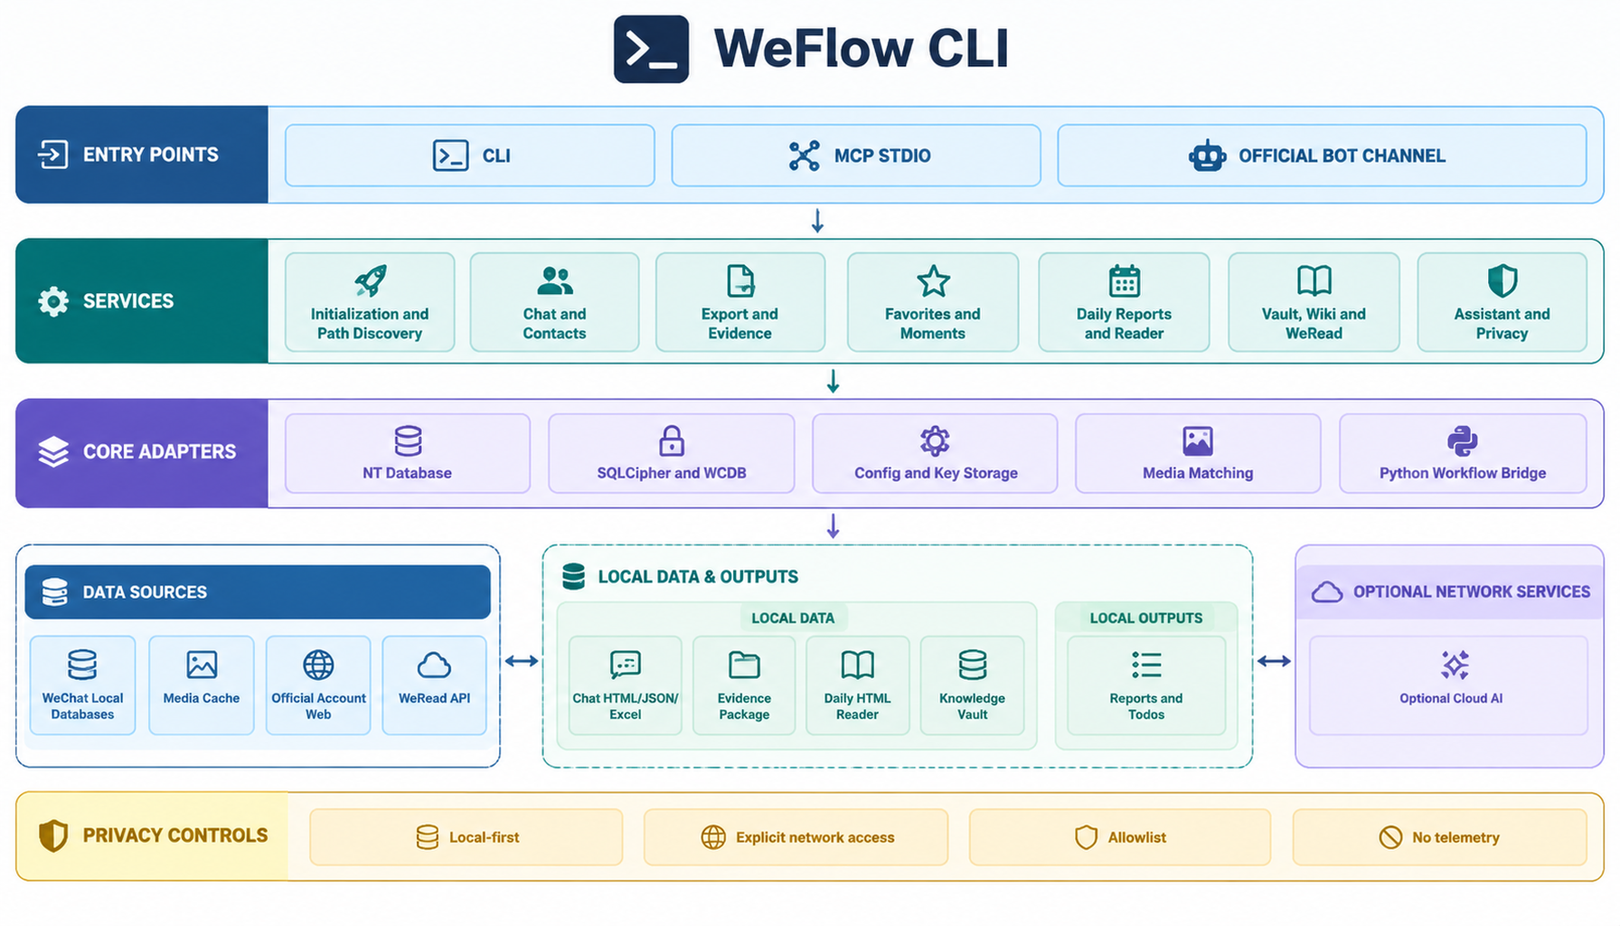
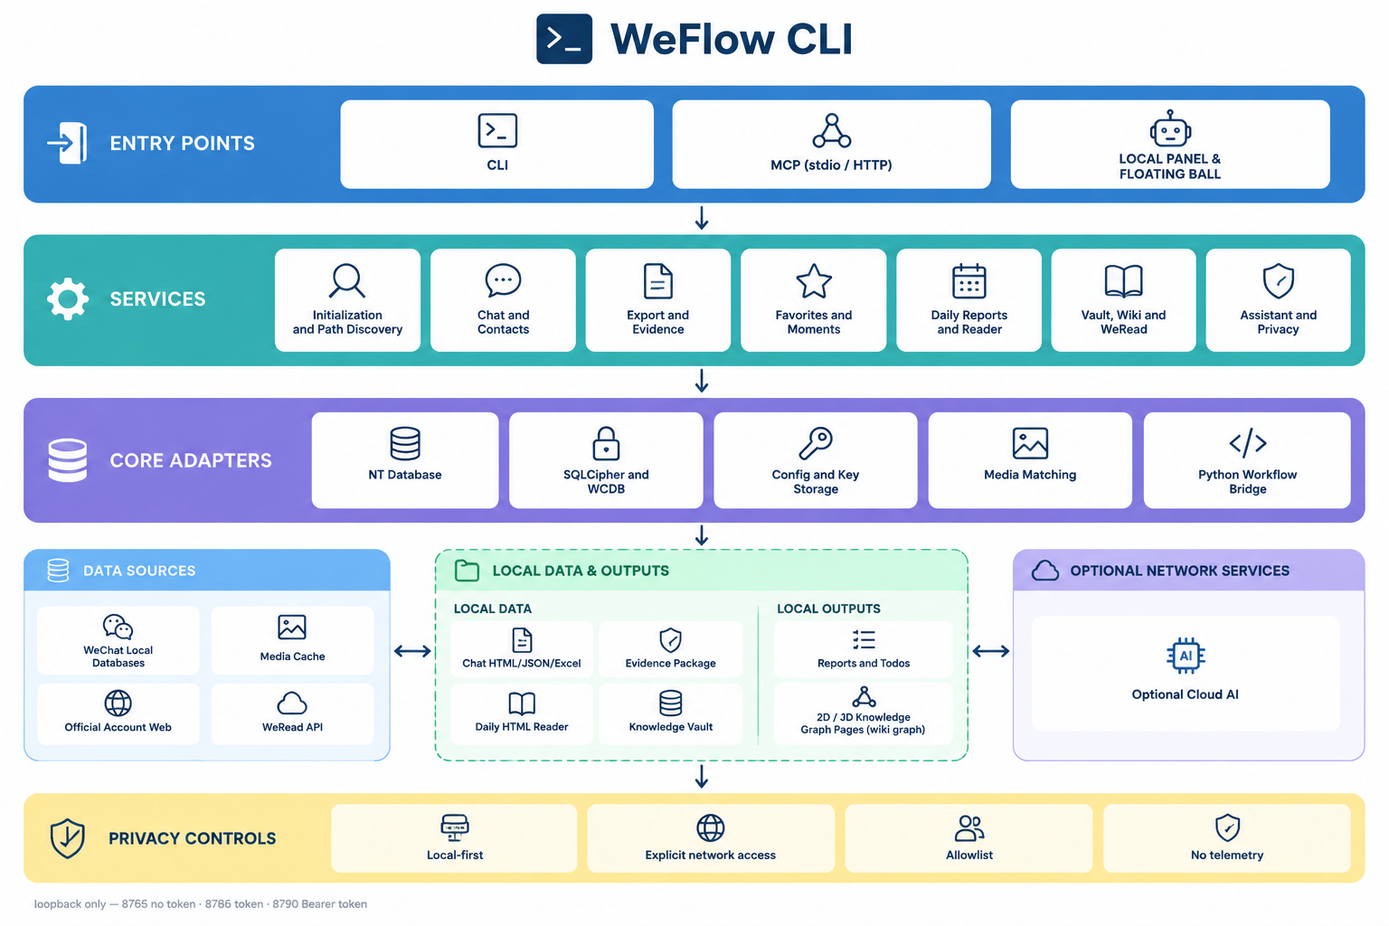
docs: README 两份与 ARCHITECTURE 更新到当前代码 + 用 gpt-image-2.5 重出架构图
用户说"我重新更新了"，于是三份探索（文档盘点 / 过期声明扫描 / 真实架构测绘）找出差在哪，
按"会误导读者的优先"改。

## README（中英同步，逐节对照）

- **起草回复**：原写"只出文字，不发送"，而 1.9.0 起 CLI 有 `--pick N --send --yes`（两段式，
  `--send` 必须配 `--pick`）。顺带发现 **`draft --help` 自己也自相矛盾**——说明写着"不发送"，
  下面第三条就是 `--send`，一并修。
- **`bonds` 整条命令没写**（1.9.0 新增的关系温度）：两份 README 的命令表都补上。
- **知识库只写了 3D**：补 `wiki graph --flat` 的 2D 版与 `--min-degree` / `--line` 两个过滤。
- **面板那行没有"记忆"按钮**（长期记忆的只读视图，每条带写入时间与来源原话）。
- **宠物互动差一个版本**：补被拎着左右摆（幅度跟速度走）、答复落地跳一下、7–13 秒眨一次眼、
  眼睛跟着鼠标、拖到屏幕边半隐；中文版补上"划过只扭、不倾斜"这个日期。
- **中文版那句"MCP 受控只读"是错的**：MCP 工具面由助手工具表派生（少 `save_memory`、
  `look_at_image`、`set_todo_status`），写入类要显式 `confirm`，而发送 / 发布 / 改配置在两侧
  都没有工具。
- 中文版补上英文版已有的"约定版本的消息契约"（`export --contract weflow-v1`）。

## ARCHITECTURE.md

- **整条缺席的入口**：新增"本机面板与助手守护进程"一节（`assistant start` → 分离进程 →
  `127.0.0.1:8766` 随机 token → 写 endpoint 文件 → Electron/Edge + 一次性配对码换 HttpOnly
  cookie；窗口只读不写），分层图与边界表都把 `src/panel/` 补上。
- **两句说反的话**：MCP"不监听网络端口"（实际有 `--http`，回环 8790 + 强制 Bearer +
  DNS-rebinding 防护）；"默认工具面只读"（实际由助手工具表派生，不是只读）。
- **"日报写 Vault"当成默认行为** → 改成"只有 `--with-vault` / `--with-wiki` 才写"，并写清原因
  （Obsidian 图谱随库文件变化重建，"内容一更新图谱就重建"其实是库被重写了）。
- 三张 ASCII 图重画，新增一张回环端口表（8765 无 token / 8766 token / 8790 Bearer）；
  `resources/` 与 `scripts/` 的描述按实际内容改写。

## 架构图

`gpt-image-2.5` 出 3 张候选、**逐张看过**选 1 张（第 3 张把 "CLI" 画重复了，淘汰）：
补上第三条入口（本机面板）、`MCP (stdio / HTTP)`、`2D / 3D Knowledge Graph Pages`，
底部标三个回环端口。README 两处图注加"链路与端口以 ARCHITECTURE.md 为准"。
实测 `2.5` 约 **4 分钟/张**（`-ca` 是 0.5 分钟，差 10 倍）。
[…]

diff --git a/bin/weflow-cli.ts b/bin/weflow-cli.ts
@@ -629,9 +629,11 @@ program
         // 读这一位的调用方按 false 走保守分支即可。
         mcpDefaultReadOnly: false,
         mcpSurface: {
-          // 原文只写了 "minus save_memory" —— 而那张表也排除了 `look_at_image`（MCP 只取文本，
-          // 它挂进侧信道的图没人接）。机器可读字段少说一句同样算不准，如实写全。
-          derivedFrom: 'assistant tools minus save_memory and look_at_image',
+          // 这句话**手工补过两回**：先是只写 save_memory，后来补上 `look_at_image`，第三次加
+          // `set_todo_status` 时又漏了 —— 每次都是"表变了、这句话没变"，而且没有任何东西会红。
+          // 现在名字**逐个与 `MCP_EXCLUDED` 对齐**，并由 `test/assistant-tools.test.ts` 从源码里核：
+          // 那张表再加一项而这里没跟，测试就红（同下面 requiresConfirm 的处理方式）。
+          derivedFrom: 'assistant tools minus save_memory, look_at_image and set_todo_status',
           writesFiles: ['export_chat'],
           // 逐个核实过（脚本里确实调云端模型的那些）：
           // who_owes_reply/search_chats → Jev；search_semantic → 阿里云百炼嵌入 + Jev 重排；draft_reply → Jev + DeepSeek。
@@ -5289,7 +5291,7 @@ program
   // draft：判断在前、起草在后、**绝不发送**
   program
     .command('draft <talker>')
-    .description('帮我起草回复：先判断（意图/风险/该不该给实质），再起草候选 —— **只产出文本，不发送**')
+    .description('帮我起草回复：先判断（意图/风险/该不该给实质），再起草候选 —— **默认只产出文本；给了 --pick N --send 才会替你发送**')
     .option('--count <n>', '要几条候选', '3')
     .option('--pick <n>', '选第几条（从 1 数）；不带 --send 时只把那条的完整原文打出来')
     .option('--send', '把选中的那条发出去 —— **必须同时给 --pick**（不允许"自己挑一条发"），仍需 --yes/--dry-run')

diff --git a/test/assistant-tools.test.ts b/test/assistant-tools.test.ts
@@ -84,6 +84,22 @@ test('capability discovery tells the truth about the MCP surface', () => {
   assert.deepEqual([...gated].sort(),
     [...capabilities.safety.mcpSurface.callsCloudModels].sort(),
     '会出境的工具必须一个个都上确认闸门')
+  // `derivedFrom` 是同一类字段，而且**手工补过两回**：最早只写 `save_memory`，后来补了
+  // `look_at_image`，第三次加 `set_todo_status` 时又漏了（2026-10-03 核对文档时才发现）。
+  // 每次都是"表变了、这句话没变"，且没有任何东西会红。所以这里也从源码数 `MCP_EXCLUDED`
+  // 的键，与那句话点名的名字**双向比对** —— 那张表再加一项而说明没跟上，这条就红。
+  const excludedBlock = /export const MCP_EXCLUDED[^{]*\{([\s\S]*?)\n\}/.exec(toolSource)
+  assert.ok(excludedBlock, '找不到 MCP_EXCLUDED 的定义')
+  const excluded = [...excludedBlock[1].matchAll(/^\s{2}([a-z_]+):/gm)].map((m) => m[1])
+  // 解析本身的哨兵：数不出东西时下面那条 deepEqual 会因为两边都空而"通过"
+  assert.ok(excluded.length >= 3, `MCP_EXCLUDED 只数出 ${excluded.length} 个键，解析可能失效`)
+  const named = capabilities.safety.mcpSurface.derivedFrom
+    .replace(/^.*?\bminus\b\s*/, '')
+    .split(/,\s*|\s+and\s+/)
+    .map((x: string) => x.trim())
+    .filter(Boolean)
+  assert.deepEqual([...named].sort(), [...excluded].sort(),
+    'derivedFrom 点名的必须正好是 MCP_EXCLUDED 的键（字段与那张表不许各说各话）')
   assert.equal(capabilities.read.exports.versionedContract, 'weflow-message/v1')
   assert.equal(capabilities.read.exports.rawContractPreserved, true)
   assert.equal(capabilities.read.exports.incrementalRead.stableCursor, false)

diff --git a/ARCHITECTURE.md b/ARCHITECTURE.md
@@ -4,41 +4,53 @@
 
 ## 定位
 
-WeFlow CLI 是一个本地优先的命令行工具和 stdio MCP Server，面向用户本人有权访问的微信本地数据，提供查询、导出、公众号阅读、知识整理和可选 AI 助手能力。
+WeFlow CLI 是一个本地优先的命令行工具、MCP Server（**stdio 与回环 HTTP 两种传输**）和一个常驻的**本机助手面板**，面向用户本人有权访问的微信本地数据，提供查询、导出、公众号阅读、知识整理、概念图谱和可选 AI 助手能力。
 
 ## 分层结构
 
 ```text
-MCP 客户端 / 终端用户
-          |
-          v
-CLI 入口 bin/weflow-cli.ts  ----  mcp-server/index.ts
-          |
-          v
-业务服务层
+MCP 客户端 / 终端用户 / 本机面板（悬浮球，只读客户端）
+        |            |                     |
+        v            v                     v  两条入口连的是同一个大脑
+CLI 入口 bin/weflow-cli.ts     mcp-server/index.ts     助手守护进程
+        |            |         127.0.0.1:8766（token + 一次性配对码）
+        +------------+                     |
+                     v                     |
+业务服务层  src/services/  <---------------+
   chat / contact / export / evidence / favorites / sns
   daily / vault / weread / assistant / config / privacy
-          |
-          +--> Node 原生层：路径发现、配置、数据库适配、消息通道
-          +--> Python 工作流：NT 数据、公众号日报、HTML 阅读器、知识管道
-          |
-          v
+  assistantTools.ts ==== **助手与 MCP 共用同一张工具表**
+                     |
+          +----------+---------------------------+
+          |                                      |
+          v                                      v
+Node 原生层 src/core/                    Python 工作流 scripts/
+  路径发现、配置、数据库适配、消息通道        NT 数据、日报、知识卡、概念页、图谱页
+                     |
+                     v
 本地数据与明确选择的外部服务
-  微信本地数据库、缓存、日报输出、Vault
+  微信本地数据库、缓存、日报输出、Vault、概念图谱页面
   公众号网页、微信读书、用户配置的 AI 端点、官方 Bot 通道
+```
+```text
+回环端口（都只绑 127.0.0.1）：
+  8765  日报阅读器      无 token
+  8766  面板 / 助手     每个请求都要 token（含 GET /api/status）
+  8790  MCP HTTP        强制 Bearer，含 DNS-rebinding 防护
 ```
 
 ## 代码边界
 
 | 目录 | 职责 |
 | --- | --- |
-| `bin/` | Commander 命令定义、参数校验和交互式菜单。 |
+| `bin/` | Commander 命令定义、参数校验和交互式菜单（113 处 `.command(`，含子命令）。 |
 | `src/core/` | 数据目录发现、数据库连接、密钥配置适配和客户端底层集成。 |
-| `src/services/` | 聊天、导出、证据包、日报、助手、白名单和隐私策略。 |
-| `scripts/` | Python 数据读取、公众号抓取、日报、HTML、搜索和报告脚本。 |
-| `mcp-server/` | 通过 stdio 暴露受控工具，不监听网络端口。 |
-| `test/` | Node 和 Python 回归测试，优先使用合成数据。 |
-| `resources/` | 随包发布的只读资源，例如默认表情素材。 |
+| `src/services/` | 聊天、导出、证据包、日报、助手、白名单和隐私策略。`assistantTools.ts` 是助手与 MCP **共用**的工具表（31 个工具）。 |
+| `src/panel/` | 本机面板的入口：回环 HTTP 服务（`127.0.0.1:8766`，每进程一个随机 token，写 `~/.weflow-cli/assistant_endpoint.json`）、Electron/Edge 启动决策、CLI 侧客户端。 |
+| `scripts/` | 59 个 Python 工作流（约 2.8 万行）：NT 数据读取与解密、知识卡（文章 / 聊天 / 收藏 / 自写笔记）、概念页编译与体检、日报与报告、搜索与 RAG、图谱页面、判断层与评测。 |
+| `mcp-server/` | 用**两种传输**暴露受控工具：stdio（默认）与 Streamable HTTP（`--http`，回环 `127.0.0.1:8790`，强制 Bearer token，含 DNS-rebinding 防护）。两种传输的工具表相同。 |
+| `test/` | Node 和 Python 回归测试（118 个文件：80 TS / 38 Python），优先使用合成数据。 |
+| `resources/` | 随包发布的只读资源：Electron 面板应用与吉祥物素材、`wcdb` / `wx_key` 原生 DLL、`js/graph3d`（2D/3D 图谱页面用的库，版本与许可记在同目录 `NOTICE.txt`）。 |
 
 ## 主要数据流
 
@@ -73,32 +85,55 @@ CLI 入口 bin/weflow-cli.ts  ----  mcp-server/index.ts
 
 ```text
 日报 / 收藏 / 微信读书笔记 / 聊天卡 / 你自己的笔记
-  -> Vault（Sources/ 原始素材 + 001_Daily + 002_Literature 阅读笔记）
+  -> output/*-notes（卡片，四条来源各自产出，形状相同）
+  -> Vault：**只有显式加 --with-vault / --with-wiki 才写**
+       Sources/ 原始素材 + 001_Daily + 002_Literature 阅读笔记
   -> 两个概念页目录：Wiki/Concepts（文章线）、Chat/Concepts（聊天线）
   -> 本地搜索或可选 AI RAG
+  -> 概念图谱页面：wiki graph（自包含 2D/3D HTML，坐标缓存 output/.graph3d-cache/）
   -> review、report、annual-report、todos 等报告
 ```
+
+**默认不写 Obsidian 库**：Obsidian 自己的关系图谱是活的，库文件一变它就重建，所以"内容一更新图谱就重建"其实是库被重写了。于是 `daily` 只有拿到 `--with-vault`（拷贝当天内容）或 `--with-wiki`（再编概念页）时才动 Vault，由用户自己说什么时候重建。
 
 Vault promotion 默认不调用 AI；只有显式使用 `--with-ai` 并提供凭据时才生成 AI 内容。
 
 ### 助手与 MCP
 
 ```text
-MCP stdio 或官方 Bot 通道
+MCP（stdio 或回环 HTTP） / 本机面板 / 官方 Bot 通道
   -> 白名单与隐私策略
-  -> 受控工具调用
+  -> 受控工具调用（助手与 MCP 共用 assistantTools.ts 那张表）
   -> 本地数据查询 / 可选云端模型
   -> 脱敏后的回复或工具结果
 ```
 
-MCP 客户端本身是可信调用方，配置前必须审查其权限和工作目录。默认 MCP 工具面只读，不提供发布、发送、记忆写入、待办修改、配置变更或删除。助手默认拒绝所有来信；`send` 仅用于已建立的官方 Bot 通道会话，不等于操控个人微信账号，也不能向普通个人联系人或群聊发消息。
+MCP 客户端本身是可信调用方，配置前必须审查其权限和工作目录。**MCP 的工具面由助手的工具表派生**（少掉 `save_memory`、`look_at_image`、`set_todo_status` 三个），所以它**不是纯只读**：写入类调用要显式 `confirm`，读取类里有几个会出网（抓正文、公开文章搜索、语义检索、起草）。**发送消息、发布文章、改配置这三件事在两侧都没有工具**——`weflow-cli capabilities --json` 的 `safety.mcpDefaultReadOnly` 是这条边界的机器可读版本。助手默认拒绝所有来信；`send` 仅用于已建立的官方 Bot 通道会话，不等于操控个人微信账号，也不能向普通个人联系人或群聊发消息。
+
+### 本机面板与助手守护进程
+
+```text
+weflow-cli assistant start
+  -> 分离进程 weflow-cli assistant run --yes
+       -> AssistantService.start()
+            -> 可选：微信 Bot 通道长轮询（没有 token 就退化成纯本地）
+            -> startPanelServer()  绑 127.0.0.1:8766，随机 token
+                 写 ~/.weflow-cli/assistant_endpoint.json
+weflow-cli panel
+  -> 读 endpoint 文件（没起守护进程就先起）
+  -> 起 Electron（resources/panel/，**不带任何参数，凭证不进 argv**）
+     或 Edge/Chrome --app + 一次性配对码换 HttpOnly cookie
+  -> 窗口里的 renderer.js 走同一个端口；窗口本身**只读不写**
+```
+
+面板与微信内问的是**同一个大脑**：同一份记忆、同一条每日配额。所以它是客户端而不是第二个后端——两个入口不会各写一份记忆。配对码只用来换 cookie，token 由服务端生成、写在只有本机用户可读的 endpoint 文件里。
 
 ## 支持与限制
 
 - 当前重点验证 Windows 微信 4.x；Linux 可使用相应 NT 数据路径；macOS 不提供自动初始化，需用户自行提供合法的本地访问凭据。
 - 数据库格式、微信版本、官方通道和账号策略可能变化；本地运行不保证兼容性、账号安全或法律结果。
 - 图片和表情导出会尽力使用本地缓存、媒体资源记录和消息提供的 URL。没有可靠身份或原始资源时不会猜测其他图片，而是显示占位信息。
-- 阅读器只绑定回环地址，默认不是局域网服务。
+- 三个本地 HTTP 入口都只绑回环地址，默认不是局域网服务：阅读器 8765（无 token）、面板 8766（每请求 token）、MCP HTTP 8790（Bearer）。要从别的机器连，走 SSH 隧道或自己的反向代理。
 - 云端 AI、文章抓取、微信读书和发布草稿都可能产生网络请求；本地推理可避免对应的正文出网，但仍应审查客户端和模型配置。
 
 ## 维护规则

diff --git a/README.en.md b/README.en.md
@@ -94,12 +94,12 @@ Automatic initialization on Linux depends on the WeChat distribution, the Python
 | --- | --- |
 | Chat history | Query sessions, contacts, and messages; export to JSON, TXT, HTML, Excel. An HTML export also writes a media coverage report saying which images and stickers could not be embedded, and why. |
 | Official-account digest | Crawl articles, AI summarization and classification, generate a local reading page, keep favorites and read states. |
-| Personal knowledge base | Sync WeRead notes, build an Obsidian vault, semantic search, RAG Q&A, a concept wiki, and a **self-contained 3D graph page** you can open by double-clicking (`weflow-cli wiki graph --open` - no server, no network). |
+| Personal knowledge base | Sync WeRead notes, build an Obsidian vault, semantic search, RAG Q&A, a concept wiki, and a **self-contained graph page** you can open by double-clicking (`weflow-cli wiki graph --open` for 3D, `--flat` for 2D - no server, no network; `--min-degree N` keeps only the hubs, `--line wiki\|chat` draws one corpus). |
 | AI collaboration | Expose article crawling, knowledge-base retrieval, digests, and selected local-data tools to MCP-compatible clients. The inventory follows the current code and `docs/MCP.md`. |
 | Personal review | Monthly chat reports, annual reports, todo extraction, and local Moments cache queries. |
 | WeChat favorites | Read WeChat "Favorites" (official-account articles, text, images, videos, chat records) with type filters, keyword search, and Markdown/JSON export. |
 | Second-brain agent | Chat with a local AI assistant inside WeChat: natural-language queries over chats, favorites, Moments, digests, WeRead, todos, and the knowledge base; three-tier memory across sessions, daemonized background service. It can also **fetch an official-account article**, search public articles, format Markdown for the WeChat editor, list contacts, read your learning reviews, health-check the knowledge base and skill packages, and mark a todo done (**never delete one**). What it can reach, and what stays out of reach, is in `docs/PROJECT_STATE.md` and `docs/DECISIONS.md` (D-058). |
-| On-device panel | A floating ball on your desktop: click to chat with **the same brain as the WeChat side** (same memory, same quota), and each reply expands into a **thinking process** - what tool it called, how many round trips, why it stopped. The ball itself is transparent with a face per state. |
+| On-device panel | A floating ball on your desktop: click to chat with **the same brain as the WeChat side** (same memory, same quota), and each reply expands into a **thinking process** - what tool it called, how many round trips, why it stopped. The ball itself is transparent with a face per state, and a **Memory** button lists what it has stored about you long-term - each fact with the time it was written and the quote it came from (read-only). |
 | Skill packages | The assistant reads the `SKILL.md` packages already on your machine (by default `~/.claude/skills` and `~/.weflow-cli/skills`): the prompt lists what exists, and a body is read on demand before following it. **A skill grants the assistant no new tools** - it is material: not executed, not installed, and unable to read configuration or databases. `weflow-cli skill check` reports unreadable frontmatter, cross-directory collisions, and non-conforming ids. |
 | Conversation scenes | Give one conversation a fixed way of working: keywords plus an extra instruction, an output spec, and required skills. Each message picks one by **binding → keyword → last used**, and picks none when nothing matches, leaving the previous behaviour untouched. Manage with `weflow-cli scene`, or bind from the conversation with `场景 <id>`. **Scenes are not readable or writable by the model**, and which scene applied is recorded in the thinking process. |
 
@@ -234,11 +234,11 @@ weflow-cli panel               # open the on-device panel window (usable without
 
 The floating ball needs Electron (`npm i -g electron`); without it the panel degrades to an Edge/Chrome `--app` window — same UI, but no frameless always-on-top ball, no tray, no global shortcut. With the ball (a 96px mascot): **click it and the chat bubble opens beside it (the ball itself stays put; click again to collapse)**. The bubble opens to the left of the ball by default, flips to the right when there is no room on the left, and top-aligns when vertical space runs short; drag the ball to move it, and the position is remembered. **The ball is transparent - only the mascot shows through** - calm at rest, and switching to a *thinking* face for the seconds you are waiting on an answer (offline and quota-exhausted have faces of their own). **Press and hold it and it is picked up by the scruff - a twelve-frame lift (six up, six back down) that settles on release** (skipped when the system asks for reduced motion). **Run the pointer across it and it squirms as if tickled** - four poses, with **no tilt** (the 4-degree rotation it
 used to work out from how fast you move was removed on 2026-10-02, so that running the pointer across it no longer
-looks like a small take-off: rotation belongs to the lift alone).
+looks like a small take-off: rotation belongs to the lift alone). **Carried around it swings left and right - the side you move towards swings further, and faster movement swings wider.** It **hops when a reply lands**, **blinks every 7-13 seconds**, its eyes follow the pointer, and dragged to a screen edge it hides half-way behind it.
 
 **Every reply carries a collapsible "thinking process" (closed by default)**: how that turn actually went - the routing decision, which tool it called, its arguments, how many round trips, and why it stopped. It is the same record you get in WeChat by sending 轨迹 (or 思考过程), so the two cannot drift apart.
 
-**Right-click anywhere in the panel** to draft a reply for someone on your list (`weflow-cli config set quickReplyContacts "Alice,Bob"` — a click sends that conversation to two cloud models and returns text only, never sending for you). The last item in that menu tucks the ball away; the tray icon brings it back. Running a tool **never pops up a console window**, and the window recovers by itself after the assistant restarts - you do not have to reopen it.
+**Right-click anywhere in the panel** to draft a reply for someone on your list (`weflow-cli config set quickReplyContacts "Alice,Bob"` — a click sends that conversation to two cloud models and returns text only, never sending for you). The menu also carries a row of one-click actions (who is waiting on a reply, todos, digests, stats, reading stats, sessions, Moments, WeRead), and its last item tucks the ball away; the tray icon brings it back. Running a tool **never pops up a console window**, and the window recovers by itself after the assistant restarts - you do not have to reopen it.
 
 Then just talk to ClawBot on your phone. The assistant queries local chats and favorites to answer, with memory that survives across sessions:
 
@@ -281,7 +281,8 @@ Management: `weflow-cli assistant status` / `log` / `stop`; send "帮助" in WeC
 | Initialize or specify paths | `weflow-cli init [--path <dir>]` |
 | Browse chat data | `weflow-cli sessions` · `weflow-cli messages <contact>` · `weflow-cli contacts` |
 | Who is waiting on a reply | `weflow-cli awaiting --dry-run` · `weflow-cli awaiting --yes` |
-| Draft a reply (text only, never sent) | `weflow-cli draft <contact> --dry-run` · `--yes` |
+| Draft a reply (text unless you pick and send) | `weflow-cli draft <contact> --dry-run` · `--yes` (**only** `--pick N --send --yes` actually sends; both flags are required) |
+| Relationship temperature | `weflow-cli bonds` (who is cooling, who is warming, who only has WeChat; read-only, local, no model) |
 | Local judgement primitive | `weflow-cli decide --request <file> --dry-run` · `--yes` |
 | Export chat history | `weflow-cli export <contact> <json\|txt\|html\|excel>` |
 | Sync checkpoint | `weflow-cli sync run <contact> --since <date>` · `sync status` · `sync verify` |
@@ -333,6 +334,7 @@ python scripts/fav_server.py --date YYYY-MM-DD
 ## Architecture
 
 ![WeFlow CLI architecture](./docs/images/weflow-architecture-gpt-image-2.png)
+> Illustrative only: [`ARCHITECTURE.md`](./ARCHITECTURE.md) is authoritative for links, ports and authentication — this figure is model-generated, so its fine detail is not word-for-word reliable.
 
 The project is split into five clearly bounded parts:
 
